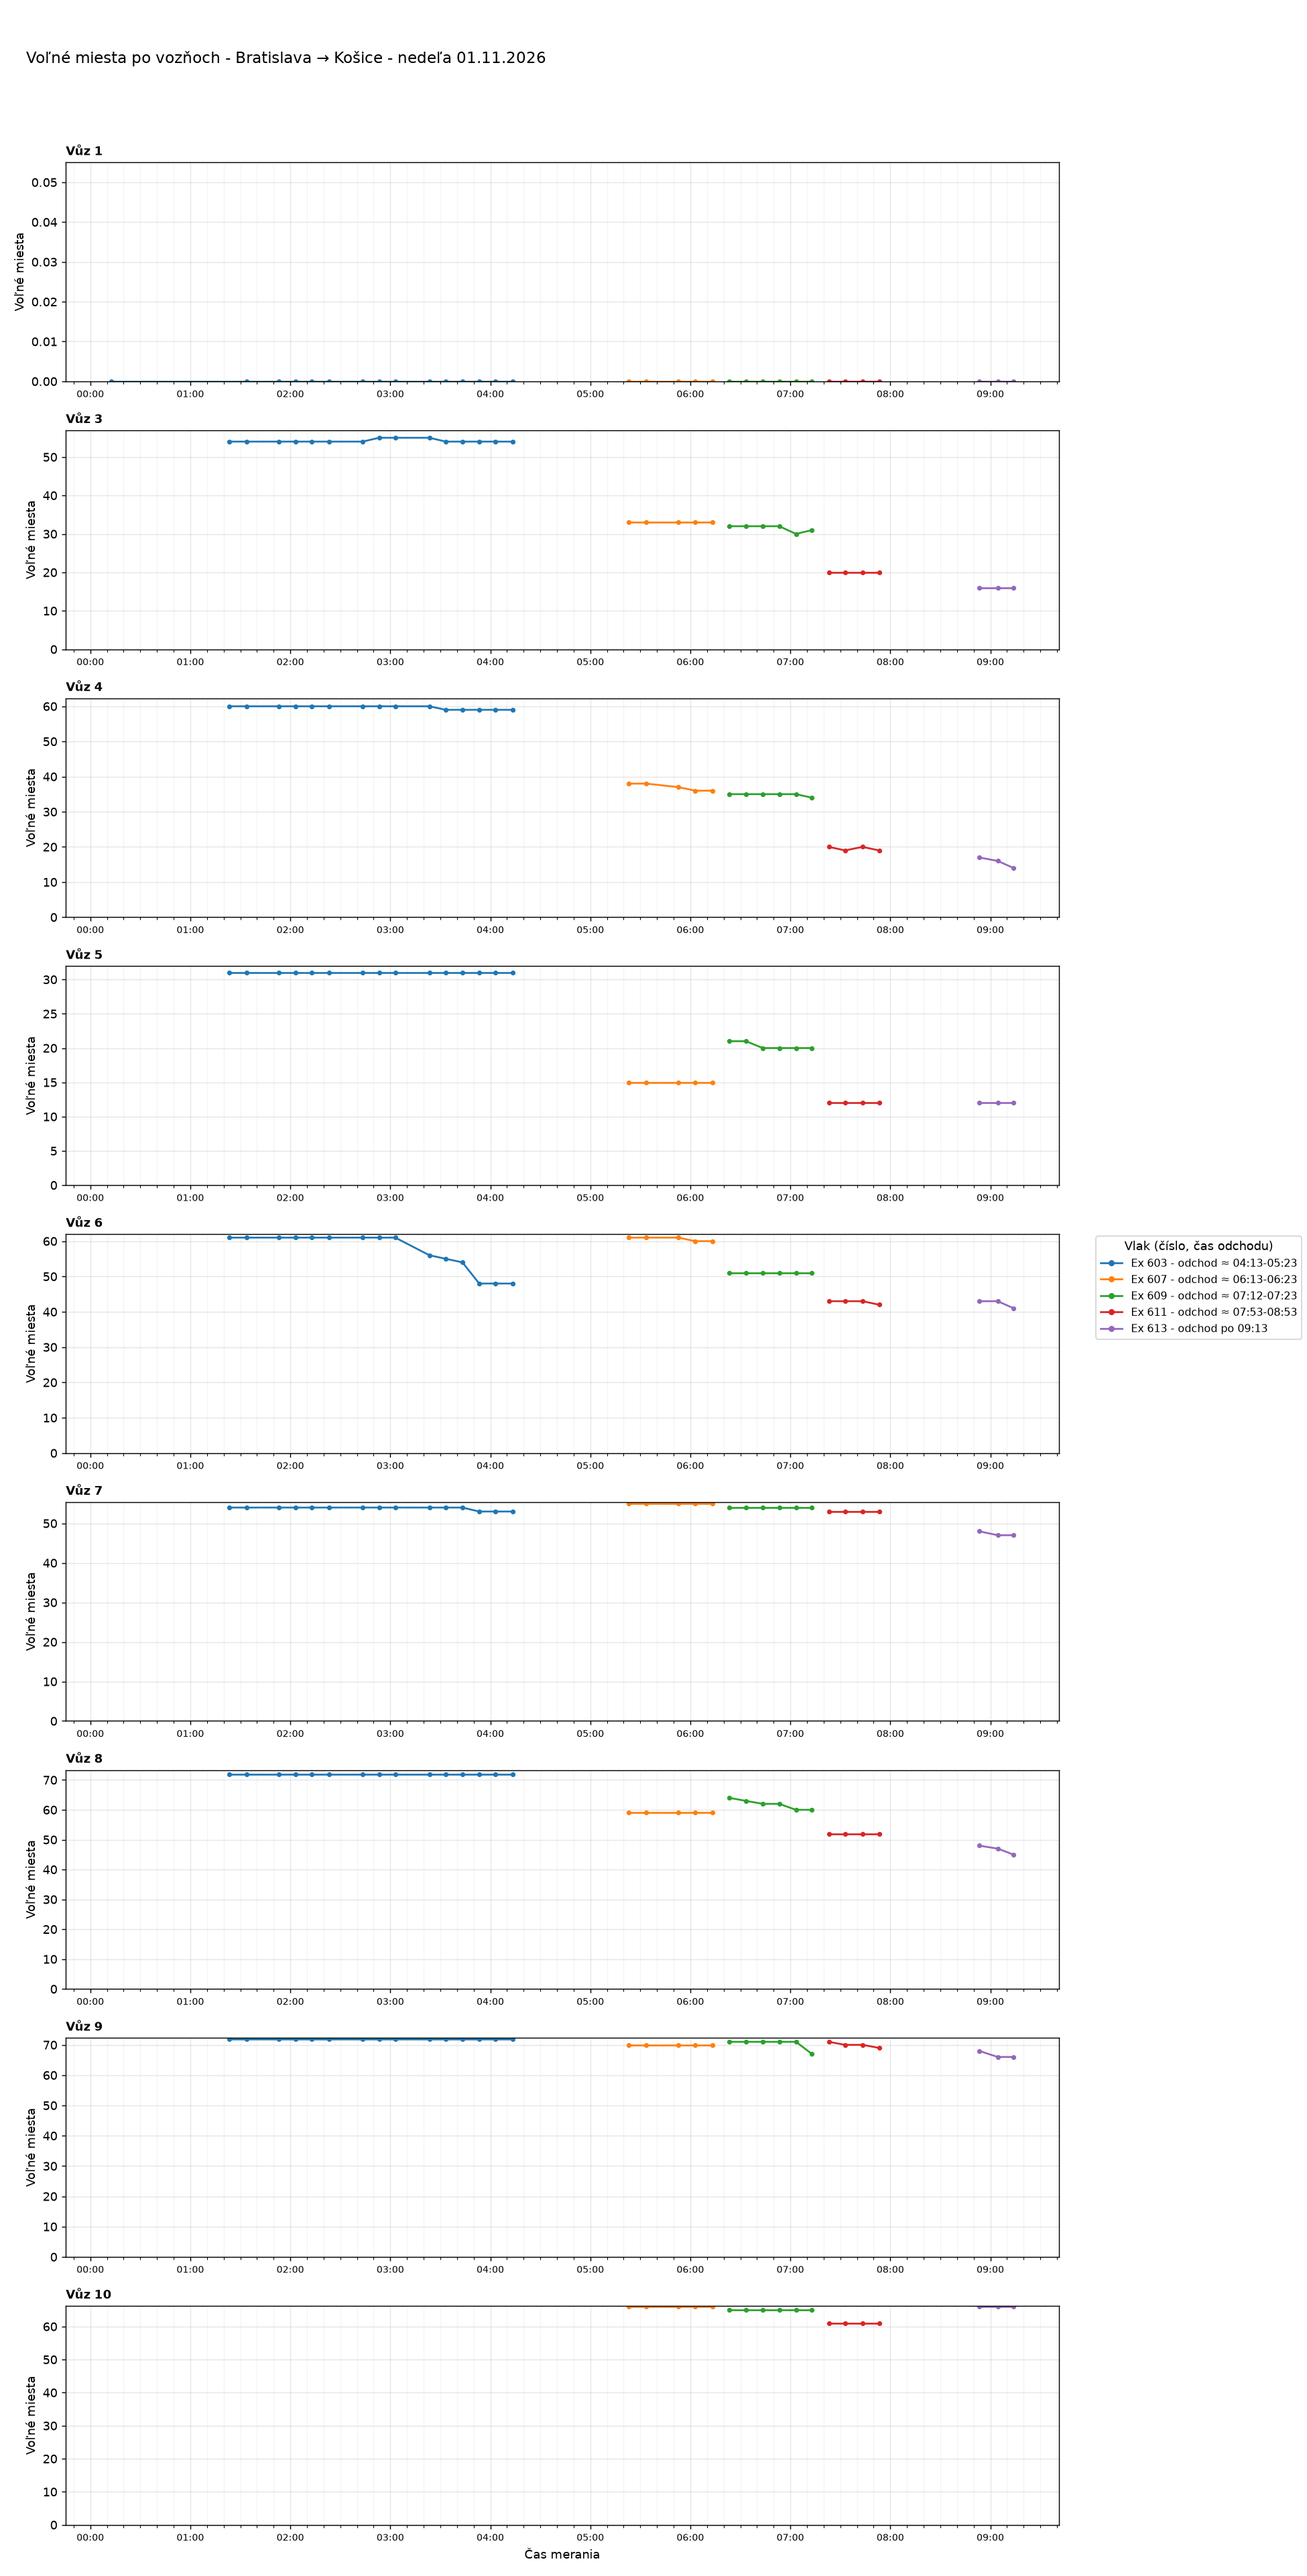
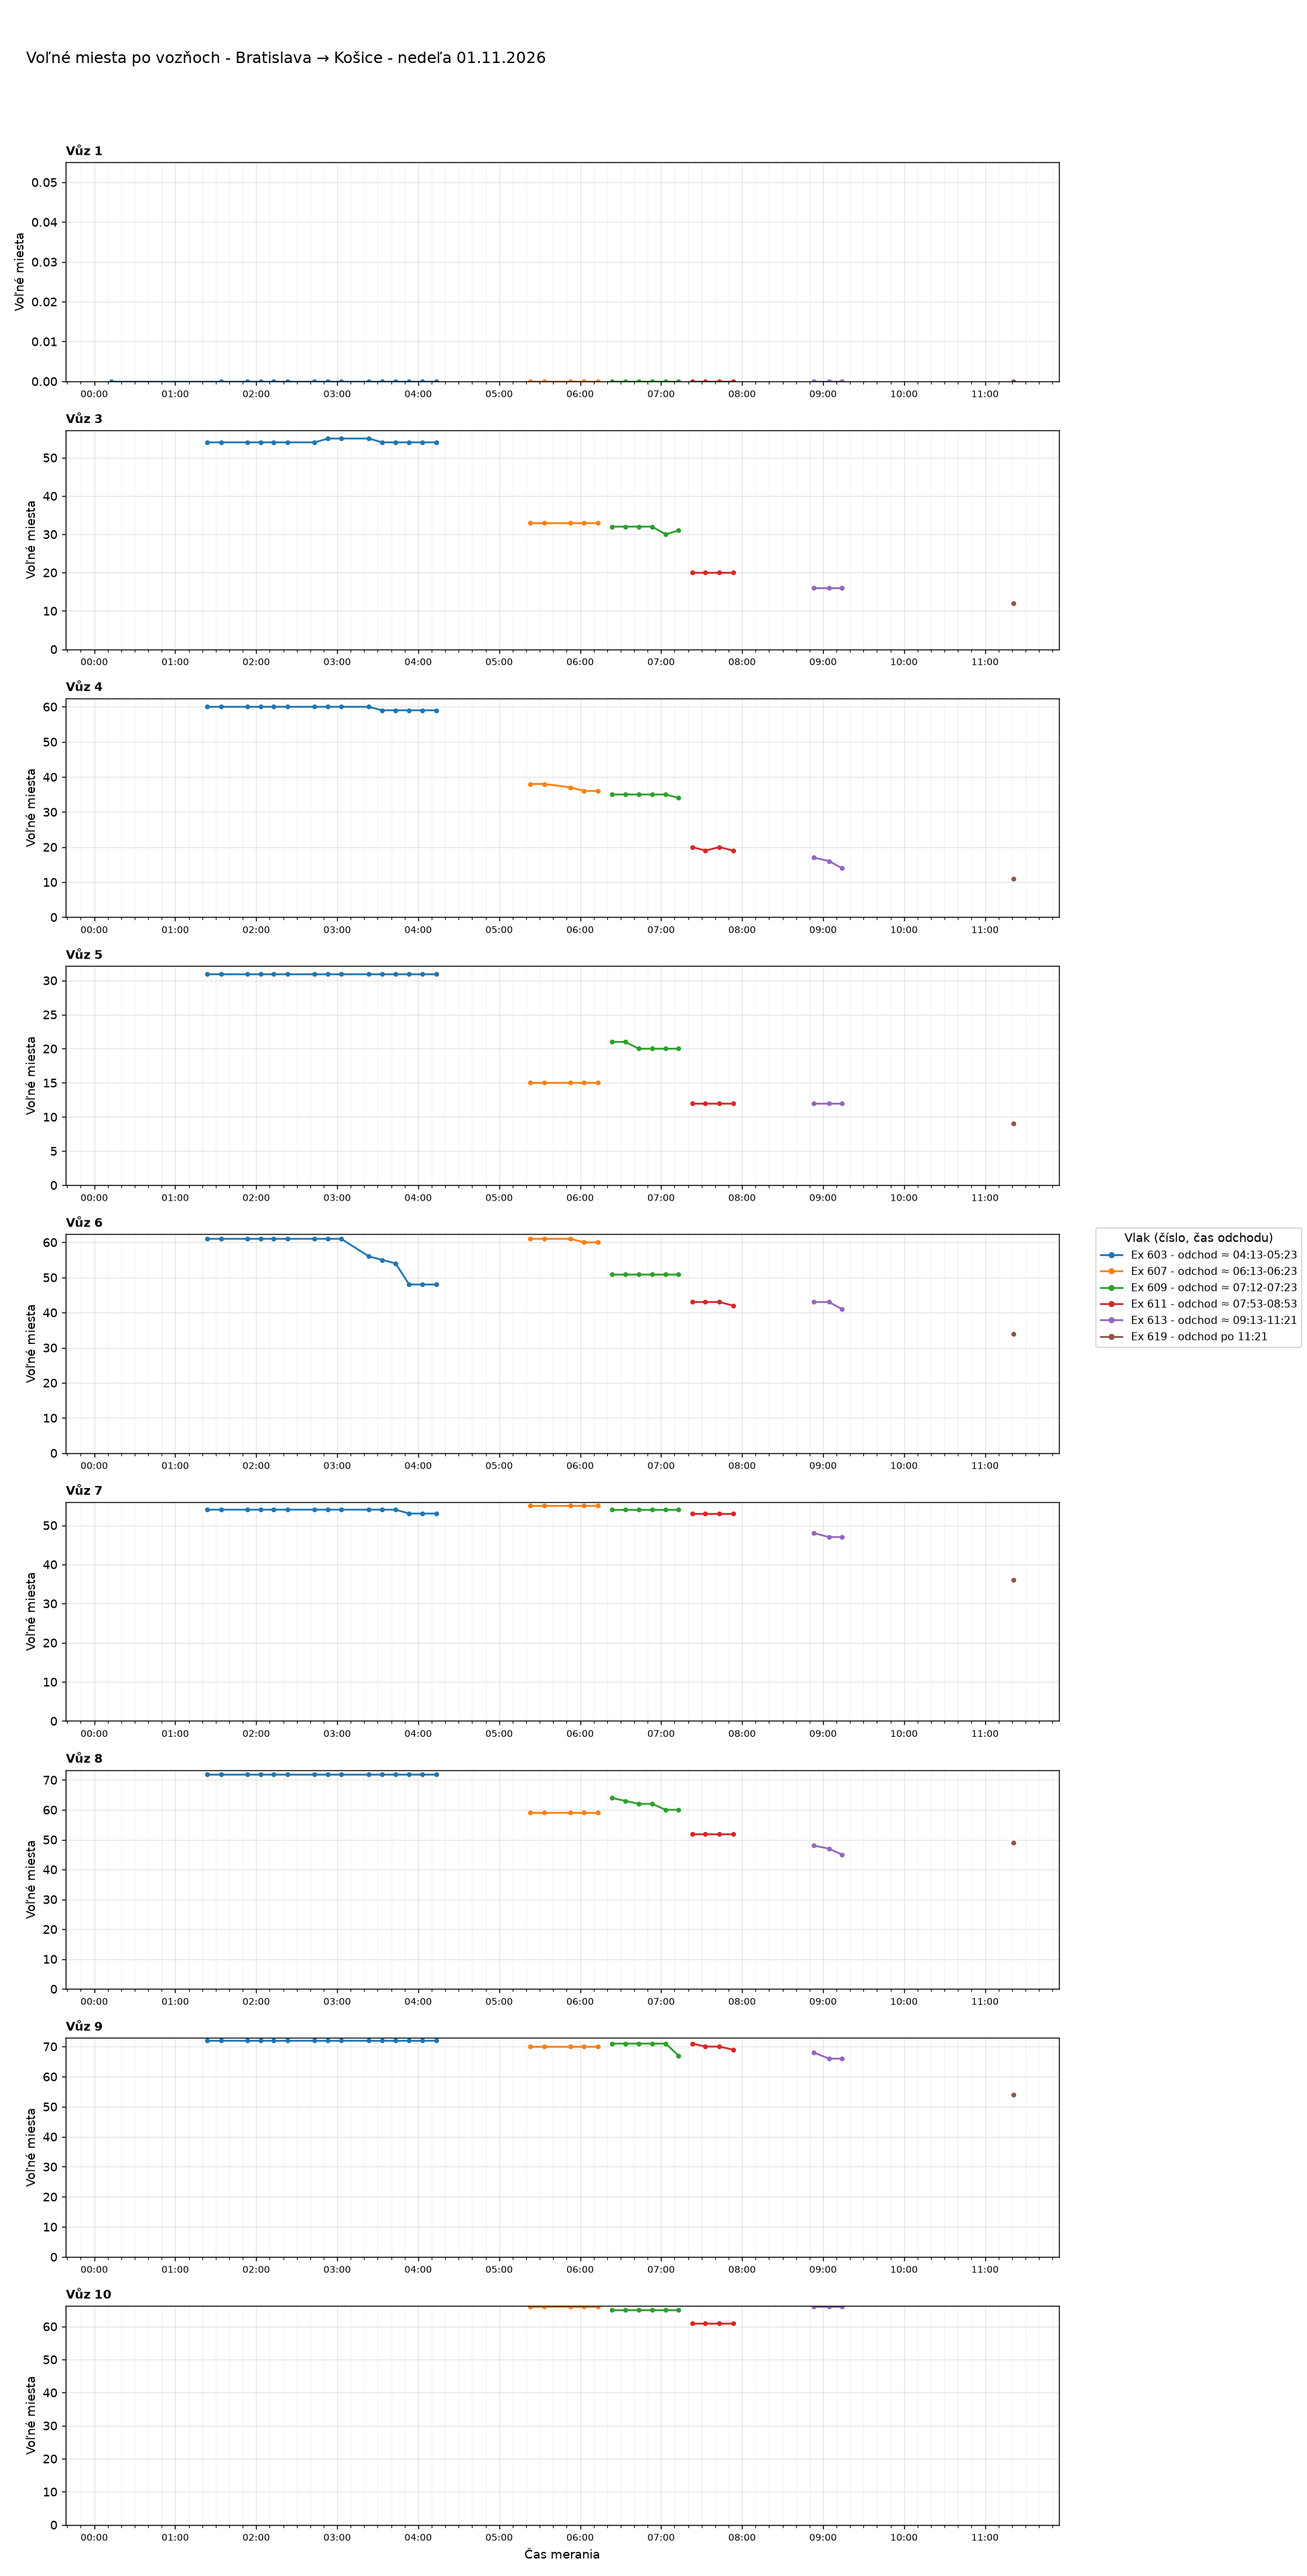
Aktualizácia grafov 2026-11-01 11:47

diff --git a/index.html b/index.html
@@ -37,7 +37,7 @@ details.trasa>summary{cursor:pointer;font-weight:600;font-size:1.1rem;padding:8p
 <body>
 <main>
 <h1>Voľné miesta vo vlakoch</h1>
-<p class="muted">Posledné meranie: 01.11.2026 10:13 ·
+<p class="muted">Posledné meranie: 01.11.2026 11:21 ·
 <a href="data/obsadenost_data.csv">stiahnuť dáta (CSV)</a></p>
 <nav class="nav"><a href="#suhrn">Súhrn</a><a href="#statistiky">Štatistiky</a><a href="#historia">História grafov</a></nav>
 
@@ -48,7 +48,7 @@ details.trasa>summary{cursor:pointer;font-weight:600;font-size:1.1rem;padding:8p
 <tbody>
 <tr><td><a href="#dBA-VR-2026-11-01">nedeľa 01.11.2026</a></td><td>Bratislava → Vrútky</td><td>38</td><td>6</td><td>00:01-10:12</td></tr>
 <tr><td><a href="#dVR-BA-2026-11-01">nedeľa 01.11.2026</a></td><td>Vrútky → Bratislava</td><td>27</td><td>6</td><td>02:42-10:13</td></tr>
-<tr><td><a href="#dBA-KE-2026-11-01">nedeľa 01.11.2026</a></td><td>Bratislava → Košice</td><td>34</td><td>5</td><td>00:12-09:13</td></tr>
+<tr><td><a href="#dBA-KE-2026-11-01">nedeľa 01.11.2026</a></td><td>Bratislava → Košice</td><td>35</td><td>6</td><td>00:12-11:21</td></tr>
 <tr><td><a href="#dKE-BA-2026-11-01">nedeľa 01.11.2026</a></td><td>Košice → Bratislava</td><td>31</td><td>8</td><td>00:05-09:05</td></tr>
 <tr><td><a href="#dBA-VR-2026-10-31">sobota 31.10.2026</a></td><td>Bratislava → Vrútky</td><td>60</td><td>12</td><td>00:21-23:11</td></tr>
 <tr><td><a href="#dVR-BA-2026-10-31">sobota 31.10.2026</a></td><td>Vrútky → Bratislava</td><td>52</td><td>13</td><td>02:42-20:42</td></tr>
